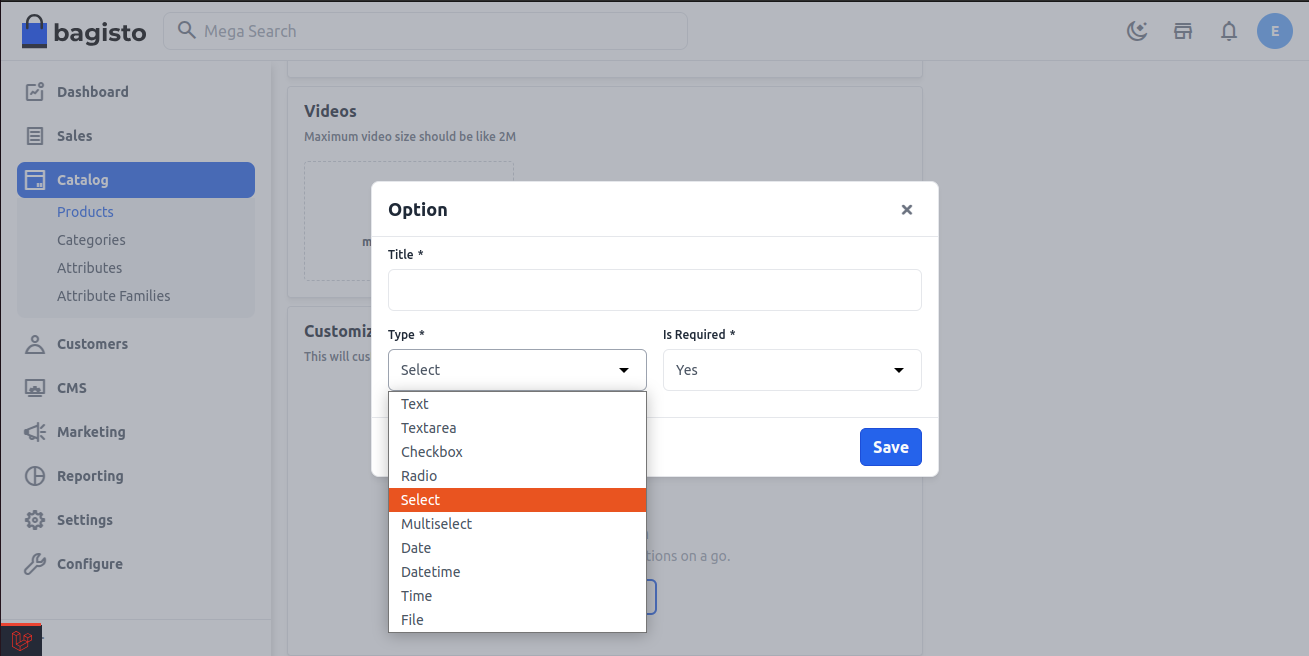
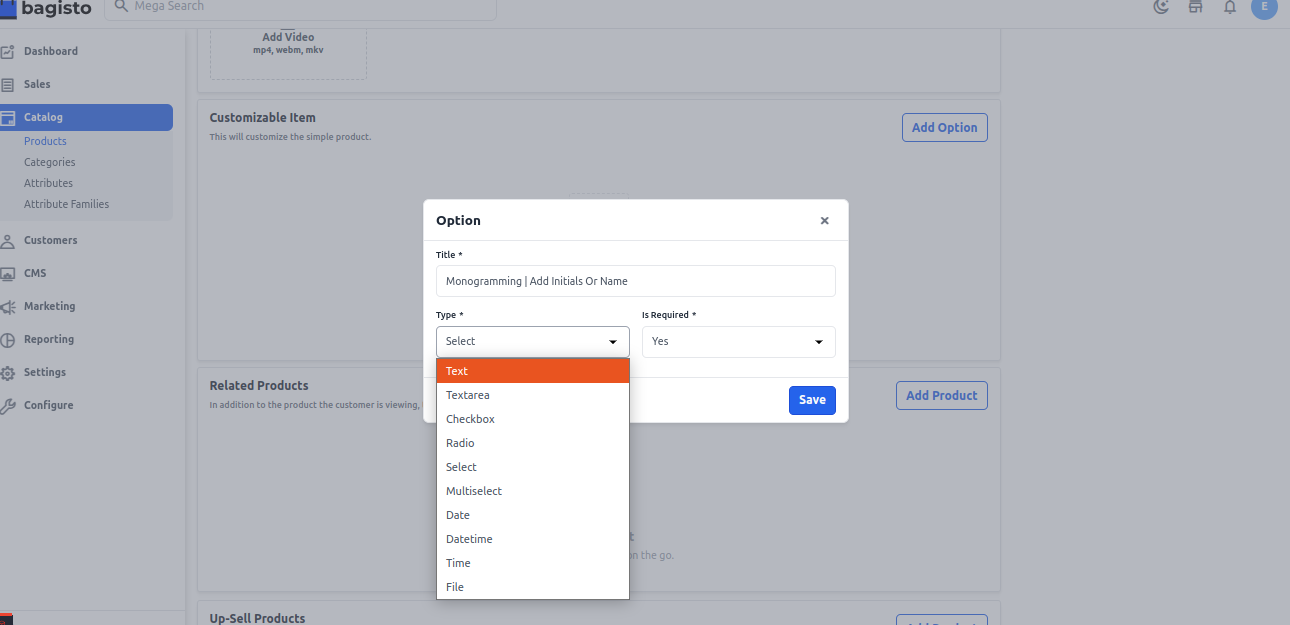
changes image in customization

diff --git a/docs/2.3.0/products/simple.md b/docs/2.3.0/products/simple.md
@@ -74,13 +74,7 @@ Customization options allow customers to personalize products based on their pre
 
 This Feature allows admins to specify whether a customization field must be filled before checkout.
 
-![customization](../../assets/2.3.0/images/simple-product/is-required.png)
-
-**Front End**
-
-The customization on product will be visible as given below on the front end.
-
-![customization](../../assets/2.3.0/images/simple-product/custom-item.png)
+![customization](../../assets/2.3.0/images/simple-product/custom-shoes.png)
 
 ### New
 Enable the toggle button if you want to feature the product as a new product. The resulting product will be shown under the New Products section.
@@ -125,5 +119,5 @@ At last, **Save the Product**.
 ### Front End
 The product will be visible as given below on the front end.
 
-![product](../../assets/2.3.0/images/simple-product/product.png)
+![product](../../assets/2.3.0/images/simple-product/simple-product.png)
 

diff --git a/docs/2.3.0/products/virtual.md b/docs/2.3.0/products/virtual.md
@@ -91,19 +91,13 @@ Customization options allow customers to personalize products based on their pre
 9. **Time :** Enables users to select only a time value.
 10. **File :** Allows users to upload an image, logo, or other files for customization.
 
-![customization](../../assets/2.3.0/images/simple-product/customization.png)
+![customization](../../assets/2.3.0/images/virtual-product/customization.png)
 
 **Is Required**
 
 This Feature allows admins to specify whether a customization field must be filled before checkout.
 
-![customization](../../assets/2.3.0/images/simple-product/is-required.png)
-
-**Front End**
-
-The customization on product will be visible as given below on the front end.
-
-![customization](../../assets/2.3.0/images/virtual-product/virtual-custom.png)
+![customization](../../assets/2.3.0/images/virtual-product/virtual-customization.png)
 
 ### Channels
 
